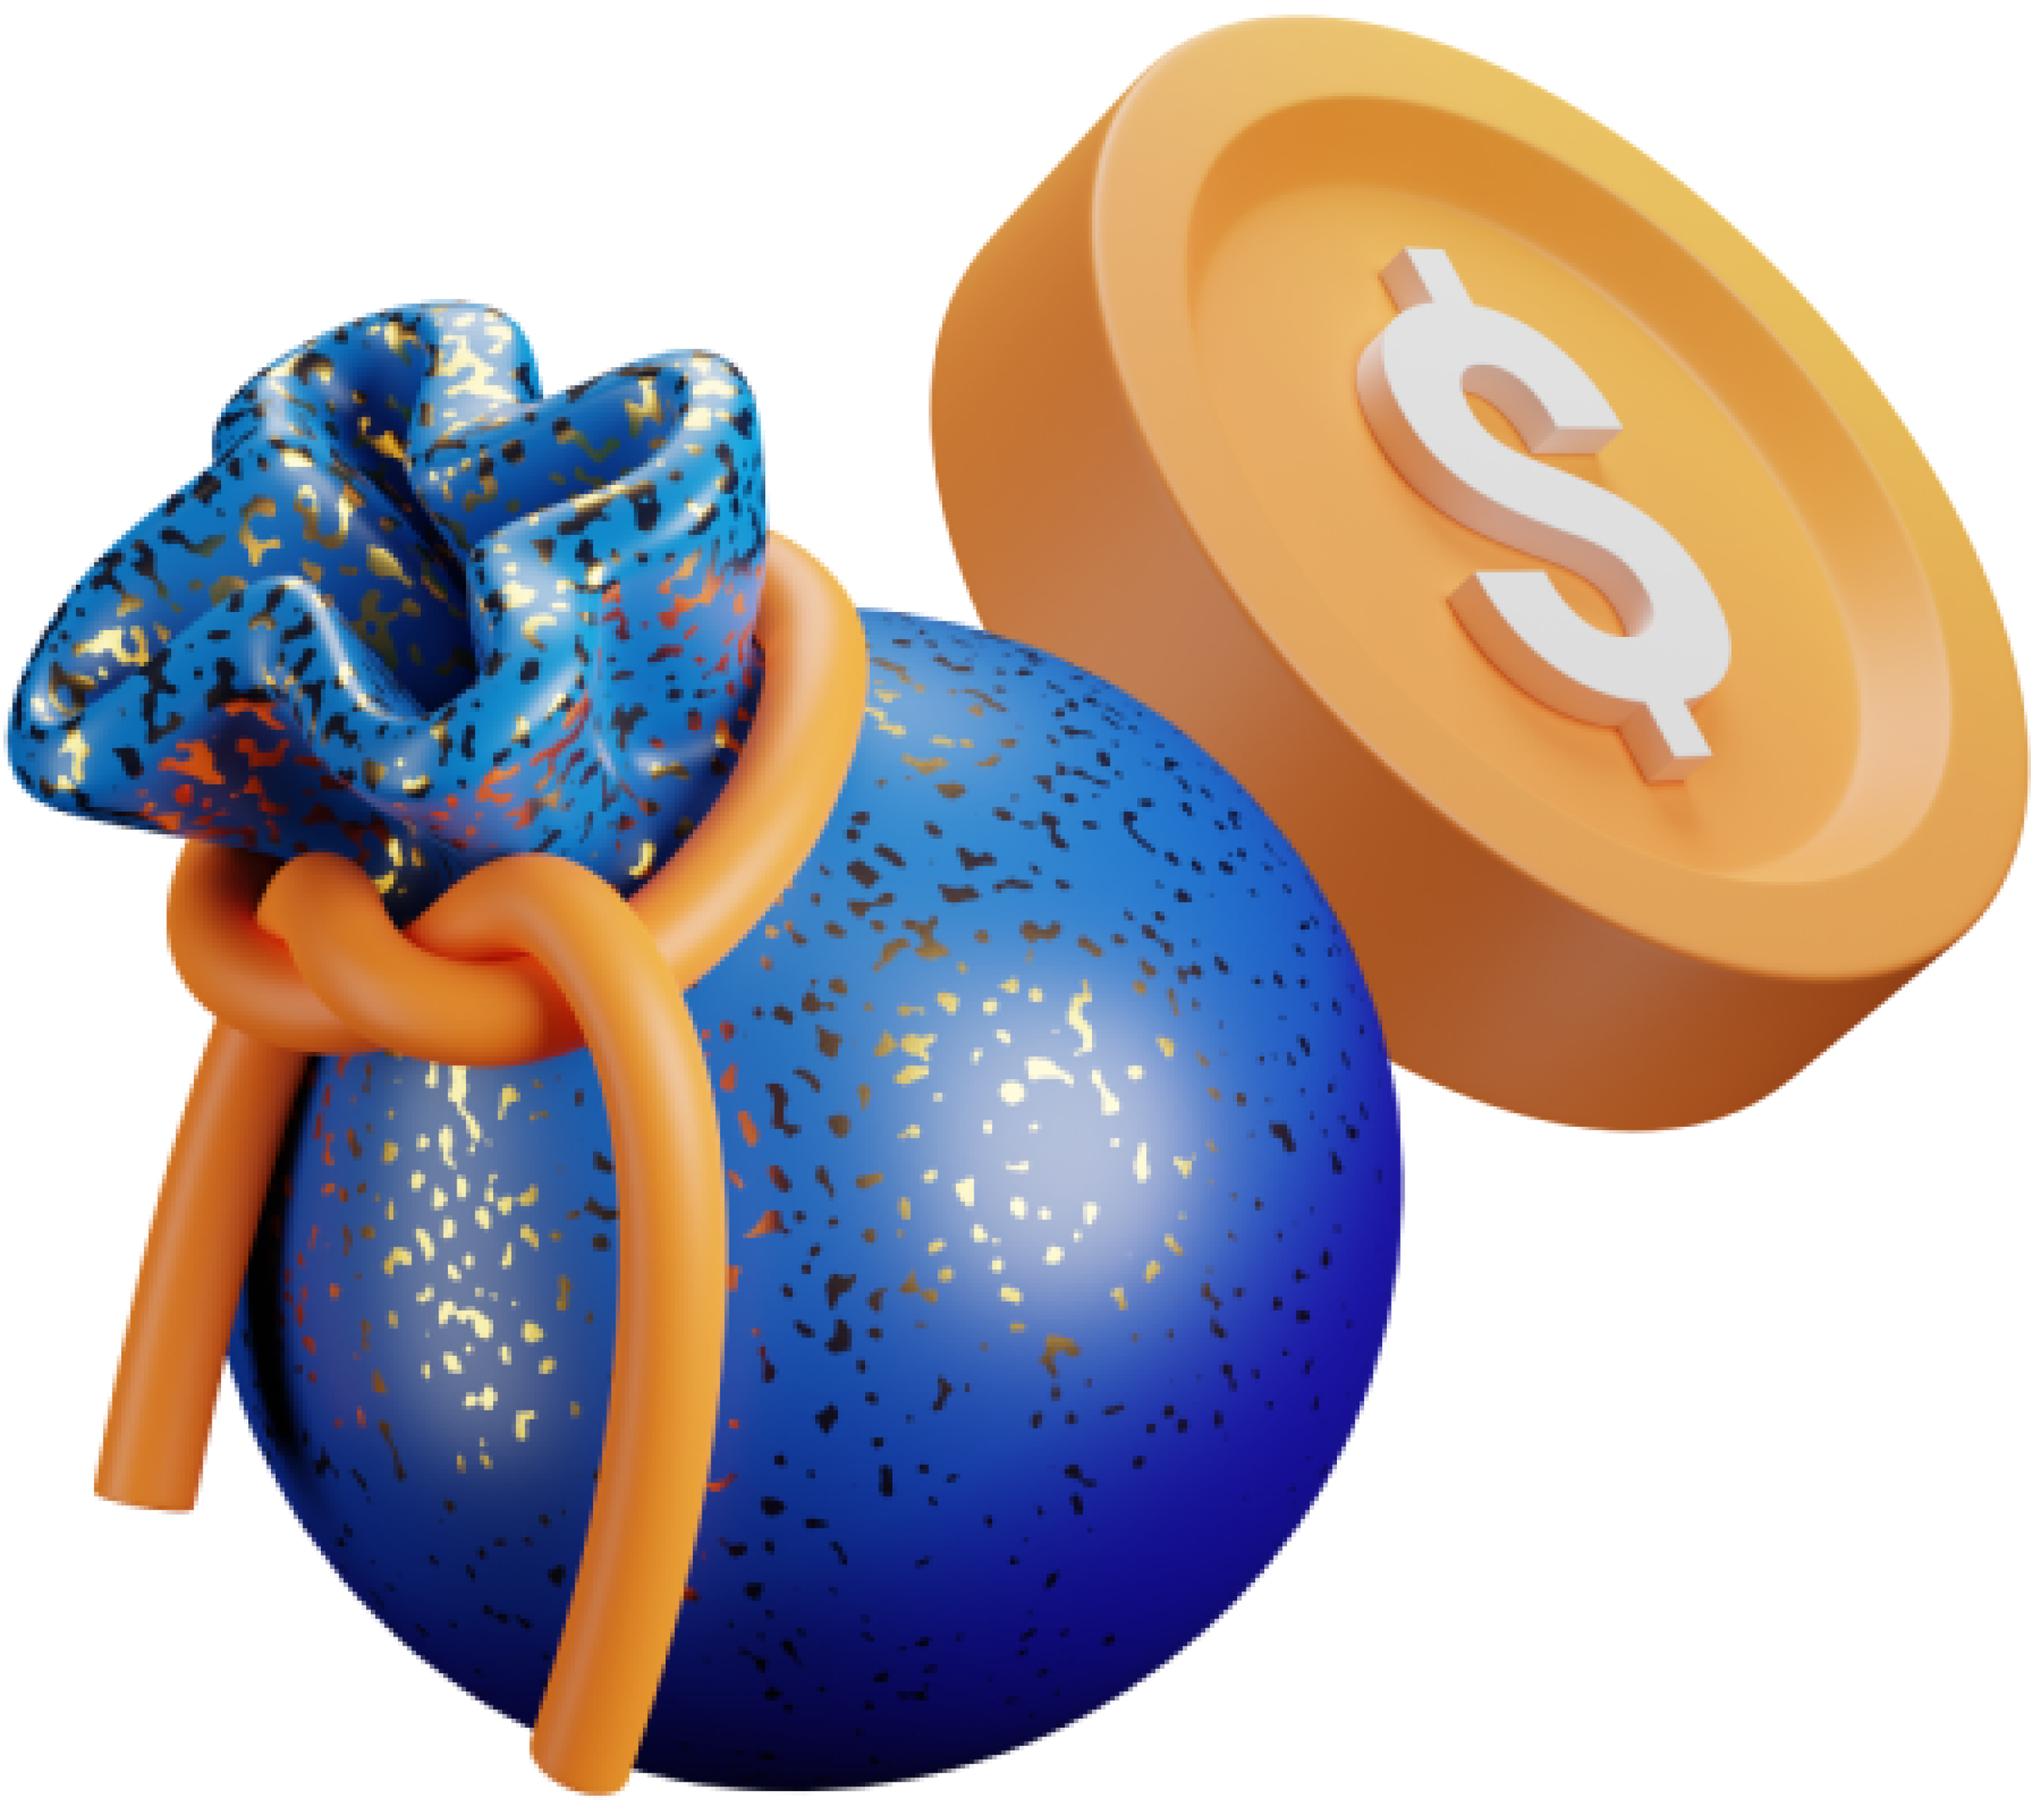
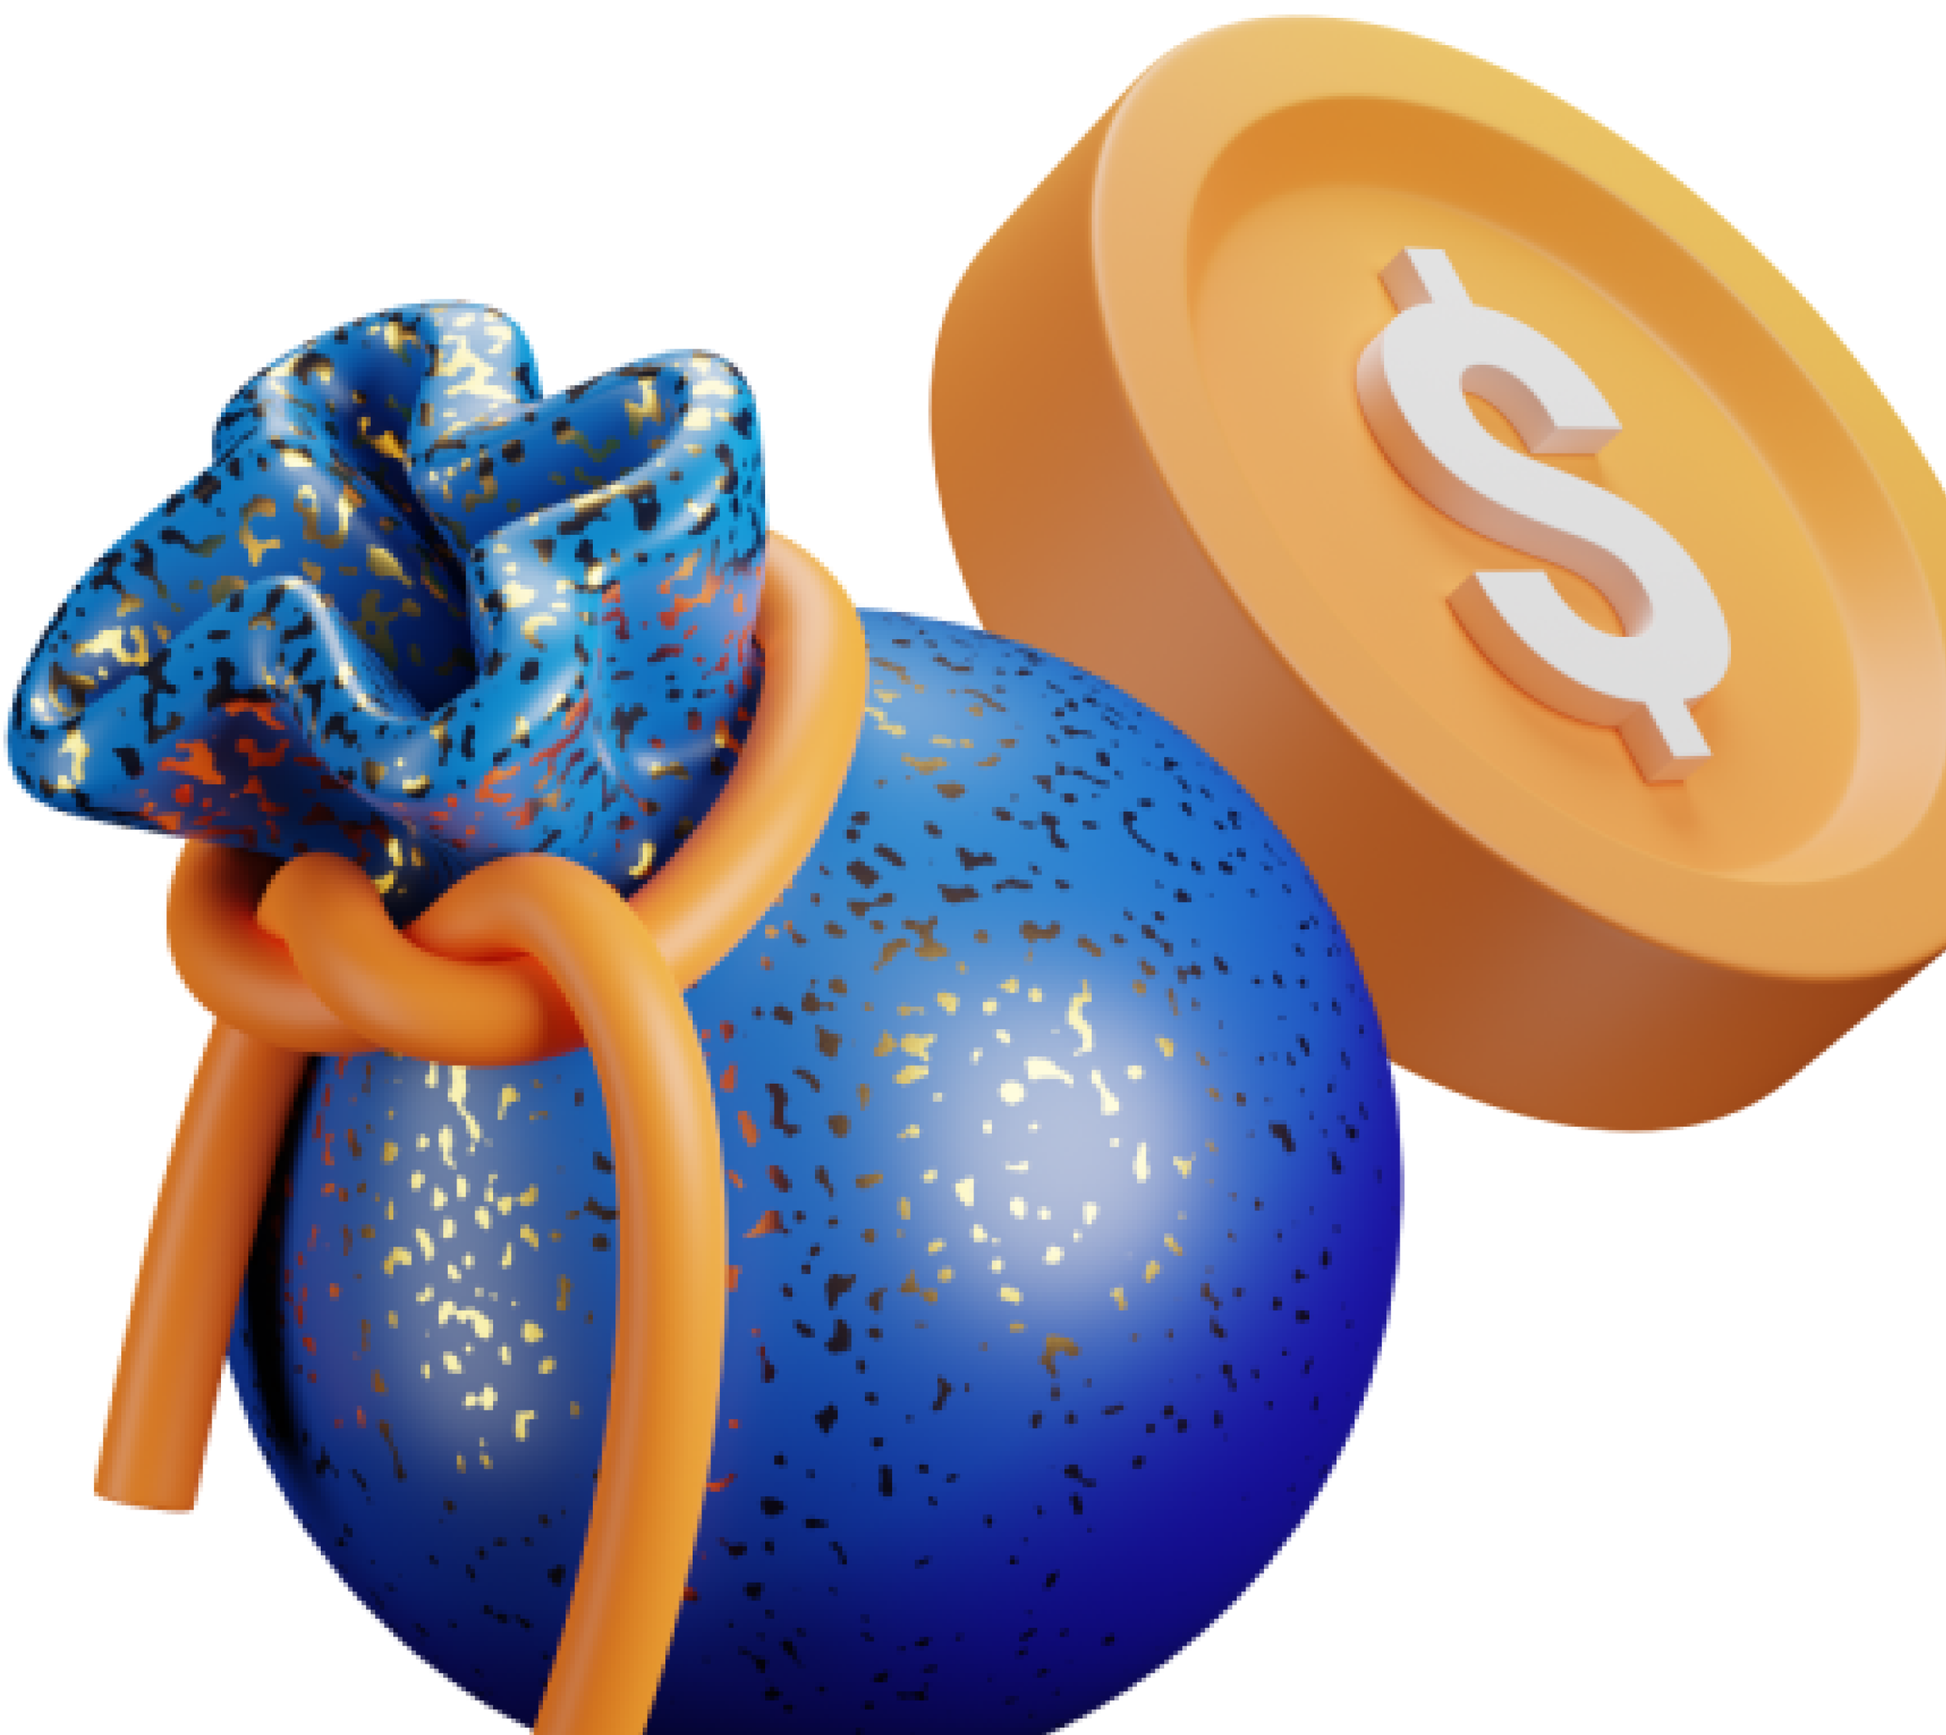
이미지 edge 수정

diff --git a/lib/home.dart b/lib/home.dart
@@ -168,7 +168,7 @@ Widget TitleSection(BuildContext context) {
             Stack(
               children: <Widget>[
                 Container(
-                  margin: const EdgeInsets.only(left: 190, top: 50),
+                  margin: const EdgeInsets.only(left: 190, top: 62.7),
                   child: Image.asset('image/money.png', width: 200),
                 ),
                 Column(
